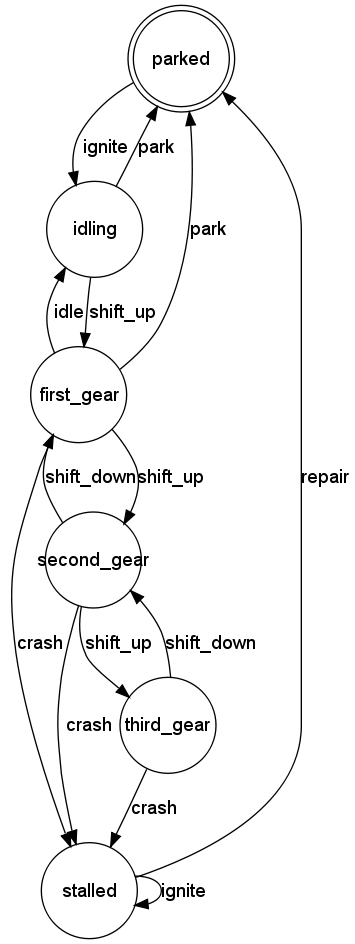
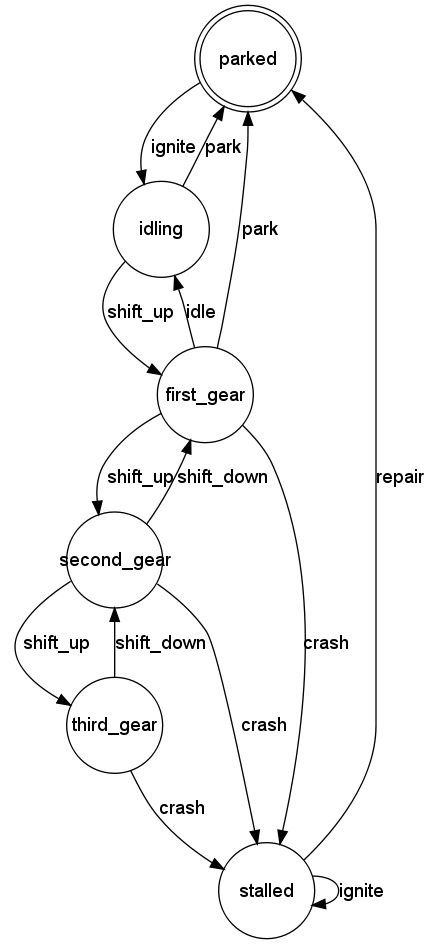
Fix graphs not being drawn the same way consistently

diff --git a/test/unit/machine_test.rb b/test/unit/machine_test.rb
@@ -160,6 +160,32 @@ class MachineWithStaticInitialStateTest < Test::Unit::TestCase
   def test_should_be_included_in_known_states
     assert_equal %w(off), @machine.states.keys
   end
+  
+  def test_should_order_state_before_transition_states
+    @machine.event :turn_on do
+      transition :from => 'off', :to => 'on'
+    end
+    assert_equal %w(off on), @machine.states_order
+  end
+  
+  def test_should_order_state_before_states_with_behaviors
+    @machine.state 'error' do
+      def color
+        'red'
+      end
+    end
+    assert_equal %w(off error), @machine.states_order
+  end
+  
+  def test_should_order_state_before_other_states
+    @machine.other_states 'on'
+    assert_equal %w(off on), @machine.states_order
+  end
+  
+  def test_should_order_state_before_callback_states
+    @machine.before_transition :from => 'on', :do => lambda {}
+    assert_equal %w(off on), @machine.states_order
+  end
 end
 
 class MachineWithDynamicInitialStateTest < Test::Unit::TestCase
@@ -362,6 +388,10 @@ class MachineAfterBeingCopiedTest < Test::Unit::TestCase
   
   def test_should_not_update_machine_for_original_event
     assert_equal @machine, @machine.events['turn_on'].machine
+  end
+  
+  def test_should_not_have_the_same_events_order
+    assert_not_same @copied_machine.events_order, @machine.events_order
   end
   
   def test_should_not_have_the_same_callbacks
@@ -842,6 +872,38 @@ class MachineWithExistingAttributeValue < Test::Unit::TestCase
   end
 end
 
+class MachineWithStateDrivenBehaviorsTest < Test::Unit::TestCase
+  def setup
+    @machine = StateMachine::Machine.new(Class.new, :initial => 'off')
+    @machine.state 'on' do
+      def color
+        'green'
+      end
+    end
+  end
+  
+  def test_should_order_states_after_initial_state
+    assert_equal %w(off on), @machine.states_order
+  end
+  
+  def test_should_order_states_after_transition_states
+    @machine.event :turn_on do
+      transition :to => 'error'
+    end
+    assert_equal %w(off error on), @machine.states_order
+  end
+  
+  def test_should_order_states_before_other_states
+    @machine.other_states 'error'
+    assert_equal %w(off on error), @machine.states_order
+  end
+  
+  def test_should_order_state_before_callback_states
+    @machine.before_transition :to => 'error', :do => lambda {}
+    assert_equal %w(off on error), @machine.states_order
+  end
+end
+
 class MachineWithExistingEventTest < Test::Unit::TestCase
   def setup
     @machine = StateMachine::Machine.new(Class.new)
@@ -892,6 +954,29 @@ class MachineWithEventsWithTransitionsTest < Test::Unit::TestCase
     
     assert_equal %w(error maybe off on unknown), @machine.states.keys.sort
   end
+  
+  def test_should_order_states_after_initial_state
+    assert_equal %w(off on error unknown), @machine.states_order
+  end
+  
+  def test_should_order_states_before_states_with_behaviors
+    @machine.state 'tripped' do
+      def color
+        'red'
+      end
+    end
+    assert_equal %w(off on error unknown tripped), @machine.states_order
+  end
+  
+  def test_should_order_states_before_other_states
+    @machine.other_states 'tripped'
+    assert_equal %w(off on error unknown tripped), @machine.states_order
+  end
+  
+  def test_should_order_state_before_callback_states
+    @machine.before_transition :to => 'tripped', :do => lambda {}
+    assert_equal %w(off on error unknown tripped), @machine.states_order
+  end
 end
 
 class MachineWithMultipleEventsTest < Test::Unit::TestCase
@@ -924,6 +1009,10 @@ class MachineWithMultipleEventsTest < Test::Unit::TestCase
   def test_should_return_all_created_events
     assert_instance_of Array, @result
     assert_equal 2, @result.size
+  end
+  
+  def test_should_track_events_order
+    assert_equal %w(turn_on activate), @machine.events_order
   end
 end
 
@@ -1024,13 +1113,42 @@ class MachineWithTransitionCallbacksTest < Test::Unit::TestCase
   def test_should_define_predicates_for_each_state
     [:on?, :off?].each {|predicate| assert @object.respond_to?(predicate)}
   end
+  
+  def test_should_order_states_after_initial_state
+    @machine.before_transition :to => 'unknown', :do => lambda {}
+    assert_equal %w(off on unknown), @machine.states_order
+  end
+  
+  def test_should_order_states_after_transition_states
+    @machine.before_transition :to => 'unknown', :do => lambda {}
+    @machine.event :turn_on do
+      transition :to => 'error'
+    end
+    assert_equal %w(off on error unknown), @machine.states_order
+  end
+  
+  def test_should_order_states_after_states_with_behaviors
+    @machine.before_transition :to => 'unknown', :do => lambda {}
+    @machine.state 'error' do
+      def color
+        'red'
+      end
+    end
+    assert_equal %w(off on error unknown), @machine.states_order
+  end
+  
+  def test_should_order_states_after_other_states
+    @machine.before_transition :to => 'unknown', :do => lambda {}
+    @machine.other_states 'error'
+    assert_equal %w(off on error unknown), @machine.states_order
+  end
 end
 
 class MachineWithOtherStates < Test::Unit::TestCase
   def setup
     @klass = Class.new
-    @machine = StateMachine::Machine.new(@klass, :initial => 'on')
-    @machine.other_states('on', 'off')
+    @machine = StateMachine::Machine.new(@klass, :initial => 'off')
+    @machine.other_states('off', 'on')
   end
   
   def test_should_include_other_states_in_known_states
@@ -1041,6 +1159,31 @@ class MachineWithOtherStates < Test::Unit::TestCase
     object = @klass.new
     
     [:on?, :off?].each {|predicate| assert object.respond_to?(predicate)}
+  end
+  
+  def test_should_order_states_after_initial_state
+    assert_equal %w(off on), @machine.states_order
+  end
+  
+  def test_should_order_states_after_transition_states
+    @machine.event :turn_on do
+      transition :to => 'error'
+    end
+    assert_equal %w(off error on), @machine.states_order
+  end
+  
+  def test_should_order_states_after_states_with_behaviors
+    @machine.state 'error' do
+      def color
+        'red'
+      end
+    end
+    assert_equal %w(off error on), @machine.states_order
+  end
+  
+  def test_should_order_state_before_callback_states
+    @machine.before_transition :to => 'error', :do => lambda {}
+    assert_equal %w(off on error), @machine.states_order
   end
 end
 

diff --git a/lib/state_machine/machine.rb b/lib/state_machine/machine.rb
@@ -259,6 +259,10 @@ module StateMachine
     # Maps "name" => StateMachine::Event
     attr_reader :events
     
+    # Tracks the order in which events were defined.  This is used to determine
+    # in what order events are drawn on GraphViz visualizations.
+    attr_reader :events_order
+    
     # A list of all of the states known to this state machine.  This will pull
     # state values from the following sources:
     # * Initial state
@@ -289,6 +293,7 @@ module StateMachine
       # Set machine configuration
       @attribute = (args.first || 'state').to_s
       @events = {}
+      @events_order = []
       @states = {}
       @callbacks = {:before => [], :after => []}
       @action = options[:action]
@@ -327,6 +332,7 @@ module StateMachine
         events[name] = event
         events
       end
+      @events_order = @events_order.dup
       @states = @states.inject({}) do |states, (value, state)|
         state = state.dup
         state.machine = self
@@ -538,6 +544,25 @@ module StateMachine
       add_states(args.flatten)
     end
     
+    # Gets the order in which states should be displayed based on where they
+    # were first referenced.  This will order states in the following priority:
+    # 
+    # 1. Initial state
+    # 2. Event transitions (:to, :from, :except_to, :except_from options)
+    # 3. States with behaviors
+    # 4. States referenced via +other_states+
+    # 5. States referenced in callbacks
+    # 
+    # This order will determine how the GraphViz visualizations are rendered.
+    def states_order
+      order = [initial_state(nil)]
+      
+      events.each {|name, event| order |= event.known_states}
+      order |= states.select {|value, state| state.methods.any?}.map {|state| state.first}
+      order |= states.keys - callbacks.values.flatten.map {|callback| callback.known_states}.flatten
+      order |= states.keys
+    end
+    
     # Defines one or more events for the machine and the transitions that can
     # be performed when those events are run.
     # 
@@ -610,6 +635,7 @@ module StateMachine
       events = names.collect do |name|
         name = name.to_s
         event = self.events[name] ||= Event.new(self, name)
+        @events_order << name unless @events_order.include?(name)
         
         if block_given?
           event.instance_eval(&block)
@@ -834,13 +860,13 @@ module StateMachine
         graph = GraphViz.new('G', :output => options[:format], :file => File.join(options[:path], "#{options[:name]}.#{options[:format]}"))
         
         # Add nodes
-        states.each do |value, state|
+        Array(state(*states_order)).each do |state|
           node = state.draw(graph)
           node.fontname = options[:font]
         end
         
         # Add edges
-        events.each do |name, event|
+        Array(event(*events_order)).each do |event|
           edges = event.draw(graph)
           edges.each {|edge| edge.fontname = options[:font]}
         end

diff --git a/test/functional/state_machine_test.rb b/test/functional/state_machine_test.rb
@@ -174,7 +174,7 @@ class Motorcycle < Vehicle
 end
 
 class TrafficLight
-  state_machine do
+  state_machine :initial => 'stop' do
     event :cycle do
       transition :to => 'proceed', :from => 'stop'
       transition :to => 'caution', :from => 'proceed'
